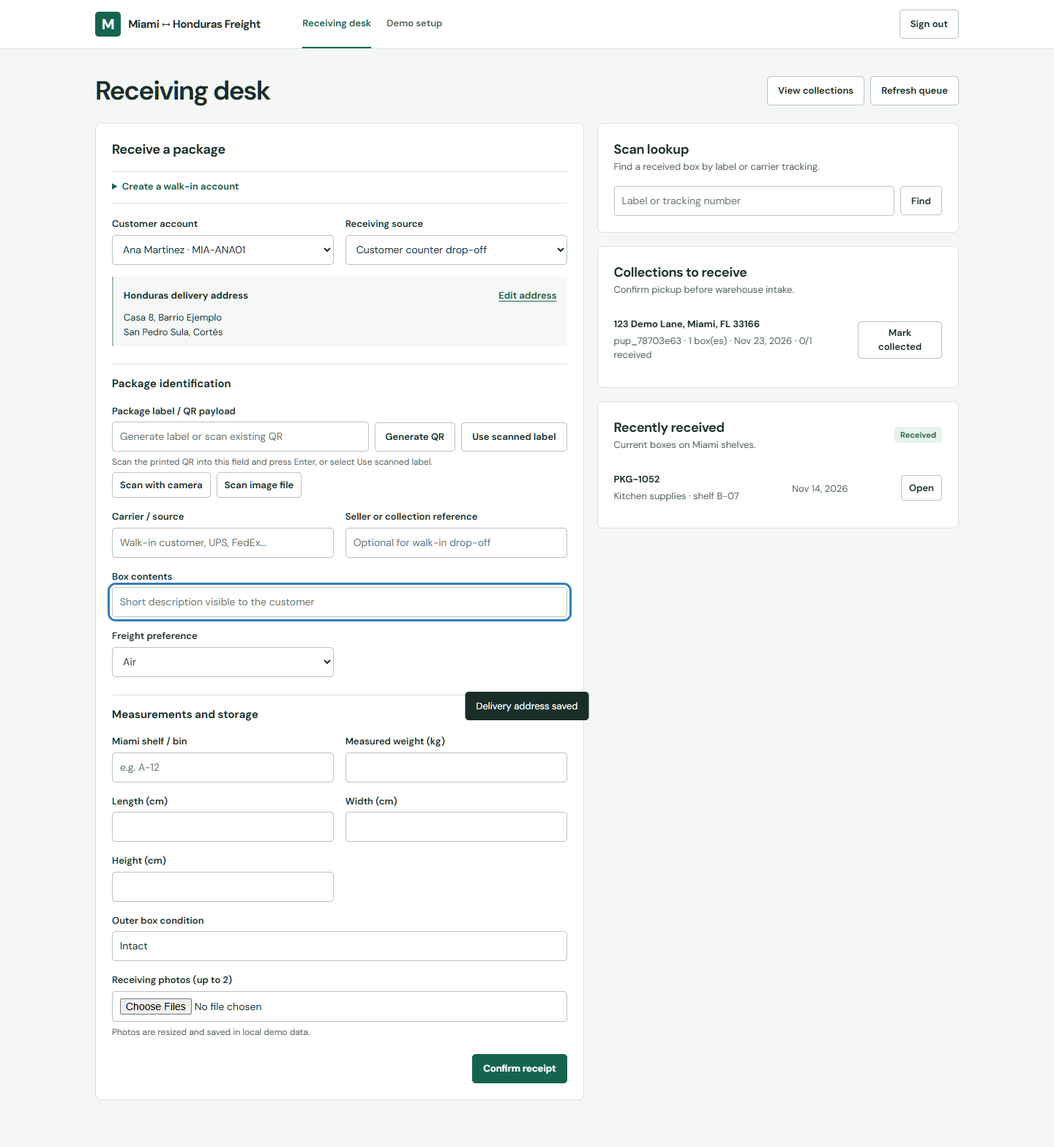
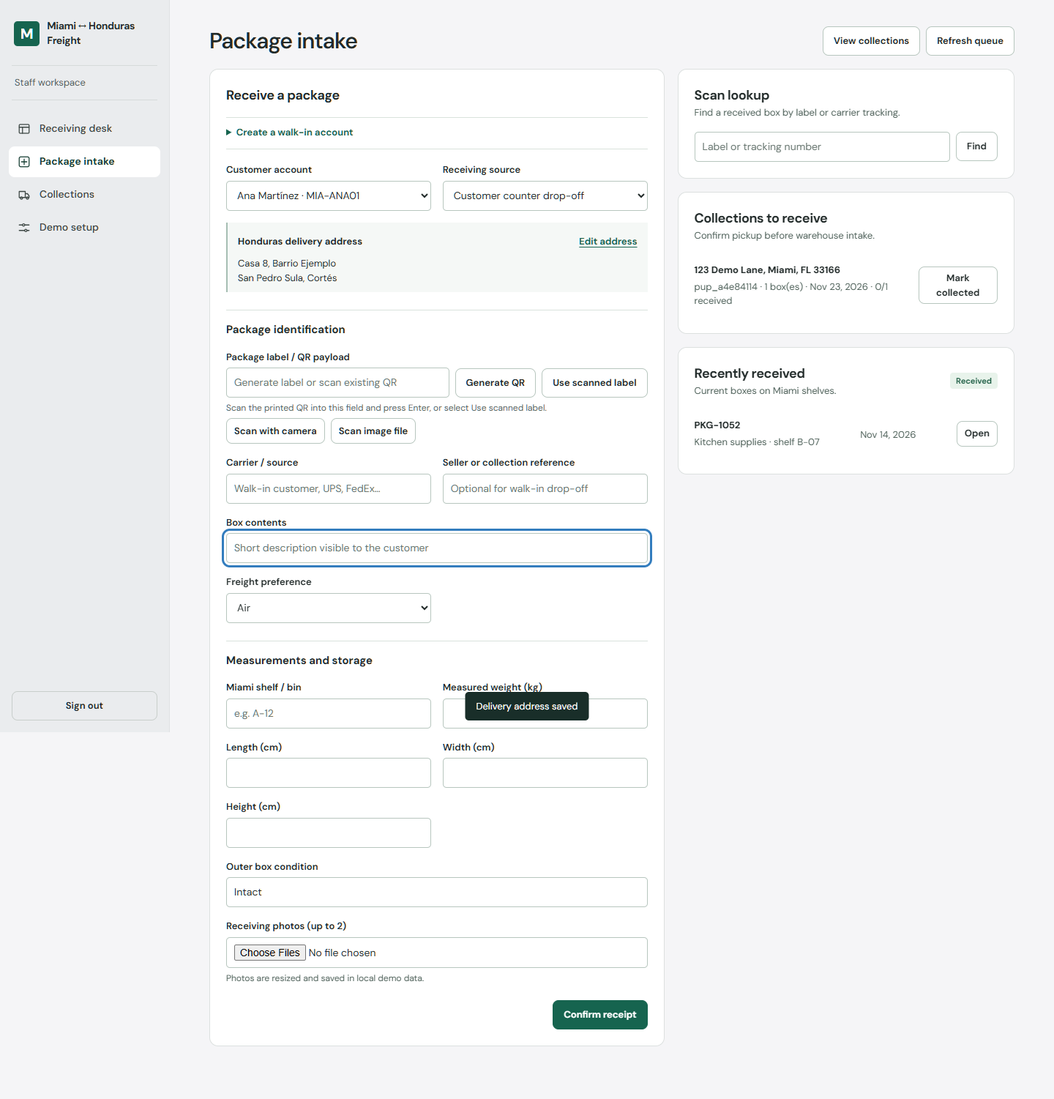
Redesign the staff receiving desk around searchable package records

diff --git a/public/app.js b/public/app.js
@@ -7,6 +7,9 @@ const stamp = value => value ? new Date(value).toLocaleString('en-US', { month: 
 const title = value => String(value || '').replaceAll('_', ' ').replace(/\b\w/g, c => c.toUpperCase())
 const S = { view: location.pathname === '/receiving' ? 'receiving' : 'customer', customerId: null, tab: 'packages', selectedPackageId: null, label: null, receipt: null, quote: null, pickupId: null, photos: [], searchResult: null, newCustomer: null, bootstrap: null, dashboard: null, queue: null, cameraStream: null, scanTimer: null }
 
+let staffPanel = 'receiving'
+const recordFilter = { query: '', status: '', page: 1, size: 10 }
+
 async function api(path, options = {}) {
   const response = await fetch(`/api/mock${path}`, { ...options, headers: { 'content-type': 'application/json', ...options.headers } })
   if (response.status === 401) location.replace(location.pathname === '/receiving' ? '/staff/login' : '/login')
@@ -20,9 +23,14 @@ async function refresh() {
   const staff = identity.role === 'staff'
   if (staff !== (location.pathname === '/receiving')) { location.replace(staff ? '/receiving' : '/portal'); return }
   if (!customers.some(item => item.id === S.customerId)) S.customerId = staff ? customers[0]?.id : identity.customerId
-  if (staff) S.queue = await api('/receiving/queue')
+  if (staff) {
+    S.queue = await api('/receiving/queue')
+    S.queue.records ??= S.queue.packages
+  }
   else S.dashboard = await api(`/customers/${identity.customerId}/dashboard`)
   $('#company-name').textContent = config.companyName
+  document.body.classList.toggle('staff-workspace', staff)
+  $('.staff-location').hidden = !staff
   document.querySelector('nav').hidden = !staff
   render()
 }
@@ -45,15 +53,72 @@ function addressSummary(customer) {
 function render() {
   stopCamera()
   if (!S.bootstrap) return
+  if (S.bootstrap.identity.role === 'customer') {
+    $('#app').innerHTML = customerView()
+    enhanceCustomerView()
+    return
+  }
+  $('#app').innerHTML = `<section id="desk-overview">${deskOverview()}</section>
+    <section id="desk-intake">${receivingView()}</section>
+    <section id="desk-collections">${sectionHead('Collections')}<div class="collection-slot"></div></section>
+    <section id="desk-setup">${setupView()}</section>`
+  enhanceReceivingView()
+  showStaffPanel(staffPanel)
+}
+function showStaffPanel(panel) {
+  const panels = { receiving: 'desk-overview', intake: 'desk-intake', collections: 'desk-collections', setup: 'desk-setup' }
+  if (!Object.hasOwn(panels, panel)) return
+  staffPanel = panel
+  S.view = panel === 'setup' ? 'setup' : 'receiving'
+  if (panel !== 'intake') stopCamera()
+  for (const [name, id] of Object.entries(panels)) document.getElementById(id).hidden = name !== panel
   for (const button of document.querySelectorAll('.nav-link')) {
-    const active = button.dataset.view === S.view
-    button.classList.toggle('active', active)
-    if (active) button.setAttribute('aria-current', 'page')
+    button.classList.toggle('active', button.dataset.view === panel)
+    if (button.dataset.view === panel) button.setAttribute('aria-current', 'page')
     else button.removeAttribute('aria-current')
   }
-  $('#app').innerHTML = S.view === 'customer' ? customerView() : S.view === 'receiving' ? receivingView() : setupView()
-  if (S.view === 'customer') enhanceCustomerView()
-  if (S.view === 'receiving') enhanceReceivingView()
+  const queue = $('#collections-queue')
+  if (panel === 'collections') $('#desk-collections .collection-slot').append(queue)
+  else if (panel === 'intake') $('#lookup-form').closest('.card').after(queue)
+  if (panel === 'receiving') updateRecords()
+}
+function deskOverview() {
+  const statuses = [...new Set(S.queue.records.map(item => item.state))].sort()
+  if (!statuses.includes(recordFilter.status)) recordFilter.status = ''
+  return `${sectionHead('Receiving desk')}
+    <div class="desk-banner"><div class="warehouse-symbol" aria-hidden="true"><svg viewBox="0 0 24 24"><path d="M2.5 9 12 3l9.5 6v11.5h-19zM7 20v-8h10v8M7 15h10M7 18h10"/></svg></div><div><h2>Miami warehouse</h2><p>${escapeHtml(S.bootstrap.config.receivingHours)}</p></div>
+      <button class="btn btn-primary" data-action="start-intake"><span aria-hidden="true">＋</span> Receive a package</button></div>
+    <section class="record-card" aria-labelledby="record-heading">
+      <header><h2 id="record-heading">Package records</h2><button class="text-button" data-action="refresh">Refresh queue</button></header>
+      <div class="record-tools"><label class="record-search"><span aria-hidden="true" class="search-icon"></span><input id="record-query" type="search" aria-label="Search package records" placeholder="Package, customer or tracking number" value="${escapeHtml(recordFilter.query)}"></label>
+      <select id="record-status" aria-label="Filter by package status"><option value="">All statuses</option>${statuses.map(value => `<option value="${escapeHtml(value)}" ${recordFilter.status === value ? 'selected' : ''}>${escapeHtml(title(value))}</option>`).join('')}</select></div>
+      <div class="record-scroll"><table class="record-table"><thead><tr><th scope="col">Package</th><th scope="col">Customer</th><th scope="col">Received</th><th scope="col">Status</th><th scope="col"><span class="visually-hidden">View record</span></th></tr></thead><tbody></tbody></table></div>
+      <footer class="record-footer"><label>Rows per page <select id="record-size">${[10,25,50].map(n => `<option ${recordFilter.size === n ? 'selected' : ''}>${n}</option>`).join('')}</select></label><span id="record-count" aria-live="polite"></span>
+        <div class="pager"><button data-page="-1" aria-label="Previous page">‹</button><span id="record-page"></span><button data-page="1" aria-label="Next page">›</button></div></footer>
+    </section>`
+}
+function updateRecords() {
+  const customers = new Map(S.bootstrap.customers.map(customer => [customer.id, customer]))
+  const query = recordFilter.query.trim().toLowerCase()
+  const records = S.queue.records.filter(item => {
+    const customer = customers.get(item.customerId)
+    return (!recordFilter.status || item.state === recordFilter.status) &&
+      [item.label, item.contents, item.tracking, customer?.name, customer?.accountCode].some(value => String(value || '').toLowerCase().includes(query))
+  })
+  const pages = Math.max(1, Math.ceil(records.length / recordFilter.size))
+  recordFilter.page = Math.max(1, Math.min(recordFilter.page, pages))
+  const start = (recordFilter.page - 1) * recordFilter.size
+  const rows = records.slice(start, start + recordFilter.size)
+  $('.record-table tbody').innerHTML = rows.map(item => {
+    const customer = customers.get(item.customerId)
+    return `<tr><td><button class="record-link" data-record="${escapeHtml(item.label)}">${escapeHtml(item.label)}</button><small>${escapeHtml(item.contents)}</small></td>
+      <td>${escapeHtml(customer?.name || 'Unknown customer')}<small>${escapeHtml(customer?.accountCode)}</small></td><td>${date(item.receivedAt)}</td>
+      <td>${badge(item.state)}</td><td><button class="row-open" data-record="${escapeHtml(item.label)}" aria-label="View ${escapeHtml(item.label)}">›</button></td></tr>`
+  }).join('') || '<tr><td class="empty" colspan="5">No matching packages.</td></tr>'
+  $('#record-count').textContent = records.length ? `${start + 1}–${start + rows.length} of ${records.length}` : '0 records'
+  $('#record-page').textContent = `Page ${recordFilter.page} of ${pages}`
+  $('[data-page="-1"]').disabled = recordFilter.page === 1
+  $('[data-page="1"]').disabled = recordFilter.page === pages
 }
 function enhanceCustomerView() {
   $('#pu-date').min = miamiToday()
@@ -86,7 +151,7 @@ function packageDetail(pkg, quotes) {
 function receivingView() {
   const customers = S.bootstrap.customers
   const queue = S.queue
-  return `${sectionHead('Receiving desk', '<button class="btn btn-secondary" data-action="refresh">Refresh queue</button>')}
+  return `${sectionHead('Package intake', '<button class="btn btn-secondary" data-action="refresh">Refresh queue</button>')}
   <div class="grid grid-wide receiving-grid"><div class="card card-pad intake-card"><div class="card-head"><h2>Receive a package</h2></div>
   ${S.newCustomer ? `<div class="new-customer-notice" role="status"><strong>${escapeHtml(S.newCustomer.name)} · ${escapeHtml(S.newCustomer.accountCode)}</strong><span>Account created and selected for this box. Generate its QR label below.</span></div>` : ''}
   <details class="customer-create"><summary>Create a walk-in account</summary><form id="customer-create-form" class="form-grid"><div class="field"><label for="new-kind">Account type</label><select id="new-kind" name="kind"><option value="individual">Individual</option><option value="business">Business</option></select></div>${field('new-name', 'Customer or business name', 'text', '', 'required maxlength="120" autocomplete="name"')}${field('new-phone', 'Contact phone', 'tel', '', 'required maxlength="60" autocomplete="tel"')}${field('new-email', 'Email (optional)', 'email', '', 'maxlength="160" autocomplete="email"')}${field('new-password', 'Portal password (optional)', 'password', '', 'minlength="10" maxlength="128" autocomplete="new-password" placeholder="Requires an email address"')}<div class="field full"><label for="new-delivery">Honduras delivery address (optional)</label><textarea id="new-delivery" name="deliveryAddress" maxlength="600" placeholder="Street or colonia, city and department"></textarea></div><div class="field full"><div class="form-actions"><button class="btn btn-primary" type="submit">Create customer &amp; select account</button></div></div></form></details>
@@ -110,7 +175,7 @@ function enhanceReceivingView() {
   queueLink.className = 'btn btn-secondary'
   queueLink.href = '#collections-queue'
   queueLink.textContent = 'View collections'
-  $('.head-actions').prepend(queueLink)
+  $('#desk-intake .head-actions').prepend(queueLink)
   $('#lookup-form input').placeholder = 'Label or tracking number'
   for (const [id, heading] of [['rc-label', 'Package identification'], ['rc-shelf', 'Measurements and storage']]) {
     const section = document.createElement('h3')
@@ -325,7 +390,18 @@ document.addEventListener('click', async event => {
     return
   }
   const nav = event.target.closest('[data-view]')
-  if (nav && S.bootstrap?.identity.role === 'staff' && ['receiving', 'setup'].includes(nav.dataset.view)) { S.view = nav.dataset.view; render(); return }
+  if (nav && S.bootstrap?.identity.role === 'staff') { showStaffPanel(nav.dataset.view); window.scrollTo(0, 0); return }
+  const pageButton = event.target.closest('[data-page]')
+  if (pageButton) { recordFilter.page += Number(pageButton.dataset.page); updateRecords(); return }
+  const record = event.target.closest('[data-record]')
+  if (record) {
+    try {
+      const pkg = await api('/receiving/lookup?label=' + encodeURIComponent(record.dataset.record))
+      $('#staff-record-body').innerHTML = packageDetail(pkg, []) + (pkg.receiptNo ? `<div class="form-actions"><button class="btn btn-primary" data-open-package="${escapeHtml(pkg.label)}">Open receiving receipt</button></div>` : '')
+      $('#staff-record').showModal()
+    } catch (e) { error(e) }
+    return
+  }
   const tab = event.target.closest('[data-tab]')
   if (tab) { S.tab = tab.dataset.tab; render(); return }
   const pkg = event.target.closest('[data-package]')
@@ -344,12 +420,17 @@ document.addEventListener('click', async event => {
     return
   }
   const open = event.target.closest('[data-open-package]')
-  if (open) { try { await openPackage(open.dataset.openPackage); toast('Saved receipt opened') } catch (e) { error(e) }; return }
+  if (open) { try { if ($('#staff-record').open) $('#staff-record').close(); staffPanel = 'intake'; await openPackage(open.dataset.openPackage); toast('Saved receipt opened') } catch (e) { error(e) }; return }
   const action = event.target.closest('[data-action]')?.dataset.action
   if (!action) return
   try {
     if (action === 'close-dialog') event.target.closest('dialog').close()
     if (action === 'logout') { await api('/auth/logout', { method: 'POST', body: '{}' }); location.replace(S.bootstrap?.identity.role === 'staff' ? '/staff/login' : '/login'); return }
+    if (action === 'start-intake') {
+      if (S.receipt) { S.receipt = S.quote = S.label = S.searchResult = S.newCustomer = null; S.photos = []; render() }
+      showStaffPanel('intake')
+      $('#rc-account').focus()
+    }
     if (action === 'retry') await refresh()
     if (action === 'copy-address') {
       await navigator.clipboard.writeText(`${S.bootstrap.config.miamiAddress}\nAccount: ${S.dashboard.customer.accountCode}`)
@@ -399,7 +480,17 @@ document.addEventListener('click', async event => {
     if (action === 'reset') { if (!confirm('Restore the sample shipments and default warehouse settings?')) return; await api('/reset', { method: 'POST', body: '{}' }); S.label = S.receipt = S.quote = S.newCustomer = null; S.customerId = 'cus_ana'; await refresh(); toast('Sample data restored') }
   } catch (e) { error(e) }
 })
+document.addEventListener('input', event => {
+  if (event.target.id === 'record-query') { recordFilter.query = event.target.value; recordFilter.page = 1; updateRecords() }
+})
 document.addEventListener('change', async event => {
+  if (event.target.id === 'record-size' || event.target.id === 'record-status') {
+    recordFilter.size = Number($('#record-size').value)
+    recordFilter.status = $('#record-status').value
+    recordFilter.page = 1
+    updateRecords()
+    return
+  }
   if (event.target.id === 'rc-source') updatePickupOptions()
   if (event.target.id === 'rc-account') {
     if (S.newCustomer && S.newCustomer.accountCode !== event.target.value) {

diff --git a/public/styles.css b/public/styles.css
@@ -138,3 +138,97 @@ dialog::backdrop { background: rgba(21, 36, 32, .38) }
 .register-panel small.full { grid-column: 1 / -1 }
 #logout { margin-left: auto }
 @media (max-width: 700px) { .auth-panel { margin: 20px 14px; padding: 20px } }
+
+/* Staff workspace */
+.staff-workspace {
+  --rail-width: 232px;
+  --staff-edge: clamp(20px, 3.5vw, 56px);
+  background: #f5f5f7;
+  color: #222b2a;
+}
+.staff-workspace .topbar {
+  position: fixed; inset: 0 auto 0 0; z-index: 2; width: var(--rail-width);
+  display: flex; flex-flow: column nowrap; align-items: stretch; gap: 0;
+  min-height: 0; padding: 26px 12px 16px; overflow-y: auto;
+  background: #eaecee; border: 0; border-right: 1px solid #dfe2e3;
+}
+.staff-workspace .brand { padding: 0 7px; max-width: none; gap: 10px; font-size: 14px }
+.staff-workspace .brand strong { max-width: 132px; line-height: 1.4 }
+.staff-location { margin: 24px 4px 18px; border-block: 1px solid #d6dada; padding: 13px 4px; font-size: 13px; color: #50615b }
+.staff-workspace .topbar nav { display: grid; width: 100%; order: 0; padding: 0; gap: 3px; align-self: stretch }
+.staff-workspace .nav-link {
+  display: flex; align-items: center; gap: 12px; min-height: 42px; border: 0;
+  padding: 9px 12px; border-radius: 8px; color: #3d4744; font-size: 14px; text-align: left; font-weight: 540;
+}
+.staff-workspace .nav-link.active { background: white; color: #163e33; font-weight: 670 }
+.staff-workspace .nav-link:hover { background: #f7f8f8 }
+.rail-icon { display: inline-flex; width: 18px; height: 18px; align-items: center; justify-content: center }
+.rail-icon svg, .warehouse-symbol svg { width: 100%; height: 100%; fill: none; stroke: currentColor; stroke-width: 1.7; stroke-linejoin: round; stroke-linecap: round }
+.staff-workspace #logout { margin: auto 4px 0; background: transparent; border-color: #c8cecb }
+.staff-workspace .main { width: min(calc(100% - var(--rail-width) - 2 * var(--staff-edge)), 1100px); margin: 0 auto; position: relative; left: calc(var(--rail-width) / 2); padding: 36px 0 72px }
+.staff-workspace .page-head { margin-bottom: 18px }
+.staff-workspace h1 { font-size: clamp(24px, 2.1vw, 31px); font-weight: 570; letter-spacing: -.035em }
+.staff-workspace .btn { border-radius: 8px }
+.staff-workspace .card, .desk-banner, .record-card { background: #fff; border: 1px solid #dce0df; border-radius: 12px; box-shadow: none }
+.desk-banner { display: flex; align-items: center; gap: 16px; padding: 22px 24px; margin-bottom: 22px }
+.warehouse-symbol { flex: none; display: grid; place-items: center; padding: 12px; width: 46px; height: 46px; background: #edf2ef; color: #225b48; border-radius: 11px }
+.desk-banner h2 { font-size: 16px }
+.desk-banner p { margin-top: 2px; color: var(--muted); font-size: 13px }
+.desk-banner .btn { margin-left: auto; gap: 6px }
+.record-card { overflow: hidden }
+.record-card header, .record-tools, .record-footer { display: flex; align-items: center; gap: 12px; padding: 16px 20px }
+.record-card header { justify-content: space-between; padding-bottom: 0 }
+.record-card header h2 { font-size: 17px }
+.record-tools { padding-block: 13px 18px }
+.record-tools select, .record-footer select, .record-search { border: 1px solid #d6dbd9; border-radius: 8px; background: white; font-size: 13px }
+.record-tools select { padding: 9px; min-height: 40px; max-width: 100% }
+.record-search { display: flex; align-items: center; flex: 1; min-width: 0; gap: 12px; padding-left: 14px }
+.search-icon { width: 13px; height: 13px; border-radius: 50%; border: 1.7px solid #626c66; position: relative; flex: none }
+.search-icon:after { content: ''; position: absolute; width: 6px; height: 1.7px; background: #626c66; bottom: -2px; right: -4px; transform: rotate(45deg) }
+.record-search input { flex: 1; min-width: 0; border: 0; background: transparent; border-radius: 6px; font-size: 13px; min-height: 40px; padding: 8px }
+.record-scroll { position: relative; overflow-x: auto }
+.record-table { width: 100%; border-collapse: collapse; text-align: left; font-size: 13px }
+.record-table th, .record-table td { padding: 15px 20px; border-bottom: 1px solid #e4e7e5 }
+.record-table th { font-size: 12px; font-weight: 620; color: #55615c; background: #fafbfa }
+.record-table td { height: 67px }
+.record-table td:last-child { text-align: right; padding-left: 0 }
+.record-table small { display: block; margin-top: 2px; font-size: 12px; color: #68756f }
+.record-table tr:hover td { background: #fafcfb }
+.record-link, .row-open, .pager button { background: transparent; border: 0; cursor: pointer; color: var(--primary) }
+.record-link { font-size: 13px; font-weight: 680; padding: 4px 0; text-align: left; overflow-wrap: anywhere }
+.record-link:hover { text-decoration: underline }
+.row-open, .pager button { padding: 0 8px; min-width: 32px; min-height: 36px; border-radius: 6px; font-size: 21px }
+.row-open:hover, .pager button:not(:disabled):hover { background: var(--soft) }
+.record-footer { flex-wrap: wrap; color: #52605a; font-size: 12px }
+.record-footer select { padding: 6px; margin-left: 4px }
+.pager { margin-left: auto; display: flex; align-items: center; gap: 8px }
+.pager button:disabled { opacity: .3; cursor: default }
+.visually-hidden { position: absolute; width: 1px; height: 1px; margin: -1px; overflow: hidden; clip-path: inset(50%); white-space: nowrap }
+.staff-workspace #staff-record .dialog-head { padding-bottom: 10px; border-bottom: 1px solid var(--line) }
+@media (max-width: 1050px) and (min-width: 701px) {
+  .staff-workspace { --rail-width: 190px; --staff-edge: 20px }
+  .staff-workspace .grid-wide { grid-template-columns: 1fr }
+  .record-table th, .record-table td { padding-inline: 12px }
+}
+@media (max-width: 700px) {
+  .staff-workspace .topbar { position: static; width: auto; display: grid; grid-template-columns: minmax(0,1fr) auto; gap: 12px; padding: 12px; border: 0; border-bottom: 1px solid #dce0df }
+  .staff-workspace .brand { padding: 0; font-size: 13px }
+  .staff-workspace .brand strong { max-width: none }
+  .staff-location { display: none }
+  .staff-workspace #logout { grid-column: 2; grid-row: 1; margin: 0; padding-inline: 10px }
+  .staff-workspace .topbar nav { grid-column: 1 / -1; grid-template-columns: repeat(2,minmax(0,1fr)) }
+  .staff-workspace .nav-link { font-size: 13px; min-height: 40px }
+  .staff-workspace .main { left: auto; width: calc(100% - 24px); padding: 20px 0 50px }
+  .desk-banner { flex-wrap: wrap; padding: 15px; gap: 10px }
+  .desk-banner .btn { width: 100%; margin-top: 3px }
+  .record-tools { align-items: stretch; flex-direction: column }
+  .record-tools, .record-footer, .record-card header { padding-inline: 14px }
+  .record-table { table-layout: fixed }
+  .record-table td { overflow-wrap: anywhere }
+  .record-table :is(th,td):nth-child(3), .record-table :is(th,td):nth-child(5) { display: none }
+  .record-table :is(th,td):nth-child(4) { width: 30% }
+  .record-table .badge { white-space: normal }
+  .record-table td, .record-table th { padding-inline: 14px }
+  .record-footer { gap: 8px }
+  .pager { gap: 2px }
+}

diff --git a/public/HOW_IT_WORKS.html b/public/HOW_IT_WORKS.html
@@ -32,7 +32,7 @@
 
     <section id="try"><div class="eyebrow">Try it yourself · about 8 minutes</div><h2>Walk through a counter drop-off</h2>
       <div class="step"><b>01</b><div><strong>Open Customer portal.</strong><p>Sign in as Ana with the customer demo credentials in the README. Her Miami receiving address and account code are at the top. Use “Edit address” to update her Honduras delivery destination. Select “Copy address + code” to see what she would send to a seller.</p></div></div>
-      <div class="step"><b>02</b><div><strong>Open Receiving desk.</strong><p>Sign out of the portal and use Staff sign in. For a new walk-in customer, expand “Create a walk-in account.” Enter a name and phone, then select “Create customer &amp; select account.” The new Miami account code is automatically selected for this box. You can also use an existing customer in the Customer account list.</p></div></div>
+      <div class="step"><b>02</b><div><strong>Open Receiving desk.</strong><p>Sign out of the portal and use Staff sign in. Select “Receive a package.” For a new walk-in customer, expand “Create a walk-in account.” Enter a name and phone, then select “Create customer &amp; select account.” The new Miami account code is automatically selected for this box. You can also use an existing customer in the Customer account list.</p></div></div>
       <div class="step"><b>03</b><div><strong>Generate the box label.</strong><p>Select “Generate QR,” then “Print sticker.” Put the printed label on the box. The QR code identifies the package and its customer account.</p></div></div>
       <div class="step"><b>04</b><div><strong>Check the box.</strong><p>Enter what is inside, choose air or ocean, record the shelf, weight, size and outer condition, and add up to two photos. A walk-in box does not need a carrier tracking number.</p></div></div>
       <div class="step"><b>05</b><div><strong>Confirm receipt.</strong><p>Select “Confirm receipt.” The demo saves one box record and one first custody event. The receipt records the delivery address on file at intake. Print it for the person at the counter.</p></div></div>
@@ -42,7 +42,7 @@
       <p class="small">The screenshot is a sample. Your screen may show different demo labels and dates.</p>
     </section>
 
-    <section id="collection"><div class="eyebrow">Another path</div><h2>South Florida collection</h2><p>In Customer portal, select “Request collection” and enter the address, date, contact and number of boxes. In Receiving desk, select “View collections,” then “Mark collected.” Choose “South Florida collection” as the receiving source and select that request before confirming each box. A two-box request stays open until both boxes are received.</p><p>The mock records the request and the staff confirmation. It does not schedule a real driver.</p></section>
+    <section id="collection"><div class="eyebrow">Another path</div><h2>South Florida collection</h2><p>In Customer portal, select “Request collection” and enter the address, date, contact and number of boxes. In Receiving desk, open “Collections,” then “Mark collected.” Open “Package intake,” choose “South Florida collection” as the receiving source and select that request before confirming each box. A two-box request stays open until both boxes are received.</p><p>The mock records the request and the staff confirmation. It does not schedule a real driver.</p></section>
 
     <section id="other"><div class="eyebrow">Useful controls</div><h2>Find, scan and reset</h2><div class="two">
       <div class="panel"><h3>Find or scan a box</h3><p>Use “Scan lookup” for a received box. You can enter its package label or carrier reference. The desk also accepts a USB scanner, device camera or an image of a QR label. Scanning an already received label reopens its saved record; it does not create a second receipt.</p></div>

diff --git a/public/index.html b/public/index.html
@@ -12,10 +12,20 @@
   <a class="skip-link" href="#app">Skip to workspace</a>
   <header class="topbar">
     <a class="brand" href="/"><span class="brand-mark" aria-hidden="true">M</span><strong id="company-name">Miami ↔ Honduras Freight</strong></a>
-    <nav hidden aria-label="Staff navigation"><button class="nav-link" data-view="receiving">Receiving desk</button><button class="nav-link" data-view="setup">Demo setup</button></nav>
+    <div class="staff-location" hidden>Staff workspace</div>
+    <nav hidden aria-label="Staff navigation">
+      <button class="nav-link" data-view="receiving"><span class="rail-icon" aria-hidden="true"><svg viewBox="0 0 24 24"><rect x="3" y="4" width="18" height="16" rx="2"/><path d="M3 9h18M9 9v11"/></svg></span>Receiving desk</button>
+      <button class="nav-link" data-view="intake"><span class="rail-icon" aria-hidden="true"><svg viewBox="0 0 24 24"><rect x="3" y="3" width="18" height="18" rx="3"/><path d="M12 7v10M7 12h10"/></svg></span>Package intake</button>
+      <button class="nav-link" data-view="collections"><span class="rail-icon" aria-hidden="true"><svg viewBox="0 0 24 24"><path d="M3 6h11v11H3zM14 10h4l3 4v3h-7"/><circle cx="7" cy="18" r="2"/><circle cx="18" cy="18" r="2"/></svg></span>Collections</button>
+      <button class="nav-link" data-view="setup"><span class="rail-icon" aria-hidden="true"><svg viewBox="0 0 24 24"><path d="M3 7h6m4 0h8M3 17h10m4 0h4"/><circle cx="11" cy="7" r="2"/><circle cx="15" cy="17" r="2"/></svg></span>Demo setup</button>
+    </nav>
     <button id="logout" class="btn btn-secondary" data-action="logout">Sign out</button>
   </header>
   <main id="app" class="main"><div class="loading-state">Loading accounts…</div></main>
+  <dialog id="staff-record" aria-label="Package record">
+    <div class="dialog-head"><h2>Package record</h2><button class="text-button" type="button" data-action="close-dialog">Close</button></div>
+    <div id="staff-record-body"></div>
+  </dialog>
   <dialog id="delivery-editor" aria-labelledby="delivery-title">
     <form id="delivery-form">
       <div class="dialog-head"><h2 id="delivery-title">Honduras delivery address</h2><button class="text-button" type="button" data-action="close-dialog">Cancel</button></div>

diff --git a/README.md b/README.md
@@ -17,7 +17,7 @@ Open <http://127.0.0.1:4175> for the demo or <http://127.0.0.1:4175/HOW_IT_WORKS
 | Customer (Miguel) | `/login` | `miguel@example.test` | `CustomerDemo24!` |
 | Receiving staff | `/staff/login` | `desk@example.test` | `StaffDemo24!` |
 
-Use `/register` to create a customer account with a Honduras destination. Sign-up opens the new customer's portal immediately. Staff sign-in opens the receiving desk with access to demo settings. When creating a walk-in account, staff can set an email and portal password.
+Use `/register` to create a customer account with a Honduras destination. Sign-up opens the new customer's portal immediately. Staff sign-in opens searchable package records. Select a package to view its history, or use the sidebar to open intake, collections or demo setup. When creating a walk-in account, staff can set an email and portal password.
 
 For a hosted demo, set `DEMO_STAFF_PASSWORD` (10–128 characters) in Hostinger to replace the shared staff password. The staff account can read all customers and shipments. New passwords are stored as salted scrypt hashes. Browser sessions expire after eight hours or a server restart.
 
@@ -44,7 +44,7 @@ The build checks JavaScript syntax. The Node server serves the browser files and
 ## What to try
 
 1. Use Ana's customer portal to copy the Miami receiving address and account code, announce a package, or request a South Florida collection.
-2. Open **Receiving desk**. For a new walk-in customer, create an individual or business account at the counter; its Miami code is selected for the box immediately. For a collection, mark the request collected. Select the customer account, generate and print a QR label, enter the box contents, optional carrier reference, dimensions, condition and shelf, and add up to two photos. A walk-in counter drop-off works without carrier tracking.
+2. Open **Receiving desk** and select **Receive a package**. For a new walk-in customer, create an individual or business account at the counter; its Miami code is selected for the box immediately. For a collection, mark the request collected. Select the customer account, generate and print a QR label, enter the box contents, optional carrier reference, dimensions, condition and shelf, and add up to two photos. A walk-in counter drop-off works without carrier tracking.
 3. Scan the printed QR with a USB scanner, device camera, or image file. The scan selects the matching customer or reopens a previously received box. Confirm receipt, print the initial receipt, and create or print a draft freight quote. Scan lookup also accepts carrier tracking numbers. Recent received boxes can be reopened after a browser reload.
 4. Open **Demo setup** to edit the receiving address, contact details, hours, and draft quote rates. **Restore sample data** restores the sample customers’ shipments and warehouse settings. Other accounts and their shipments are preserved.
 
